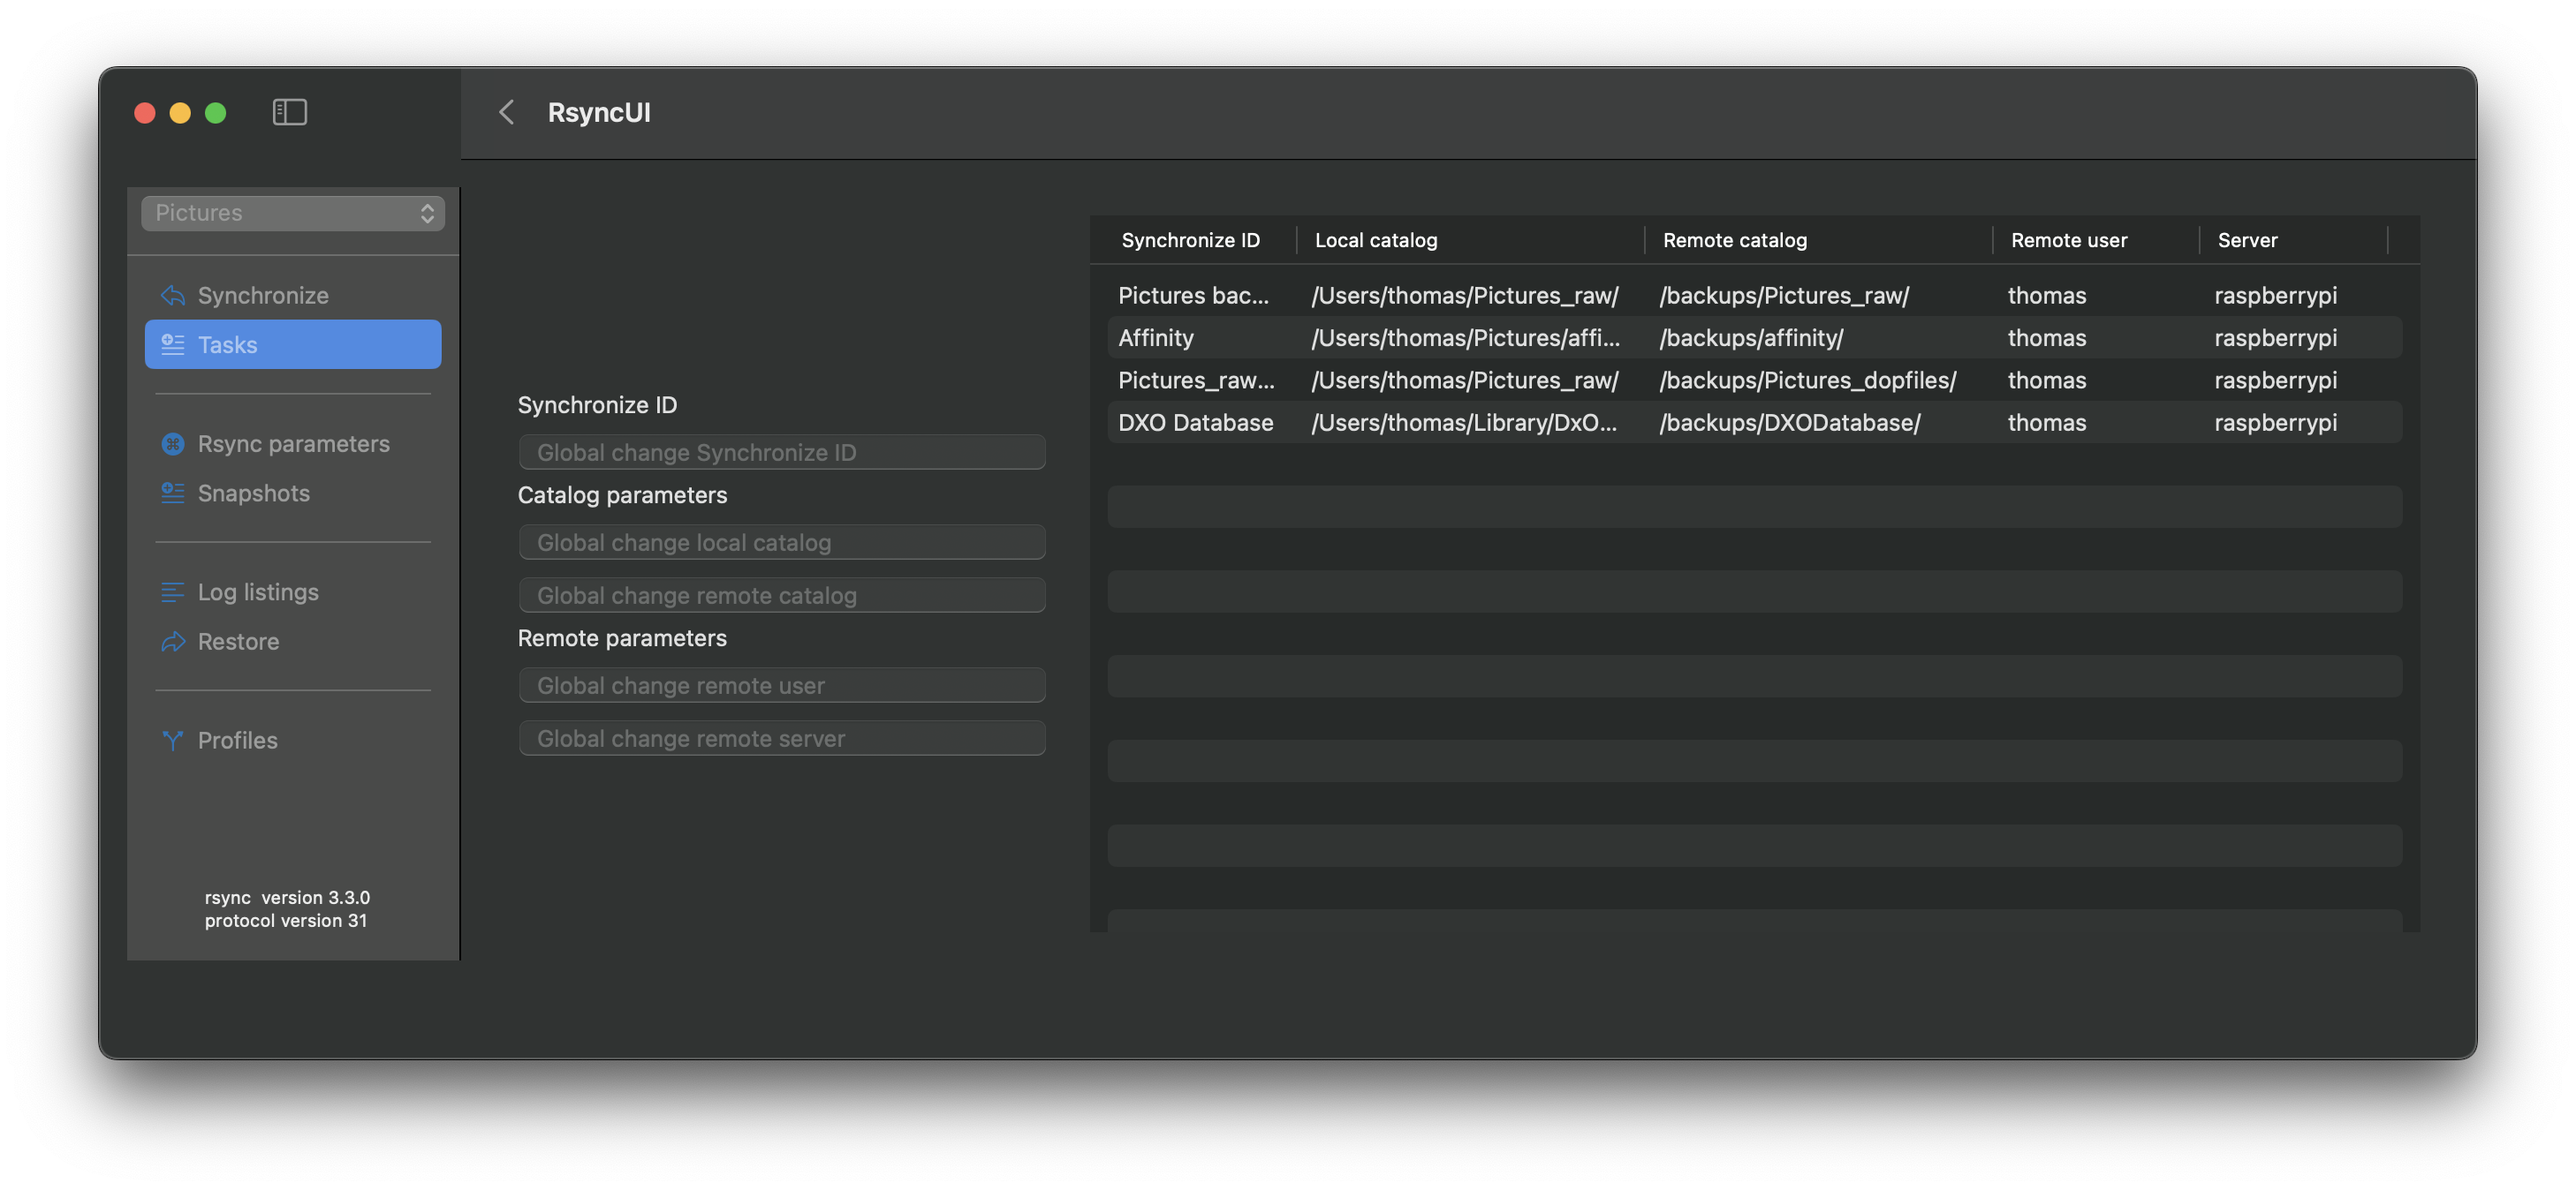
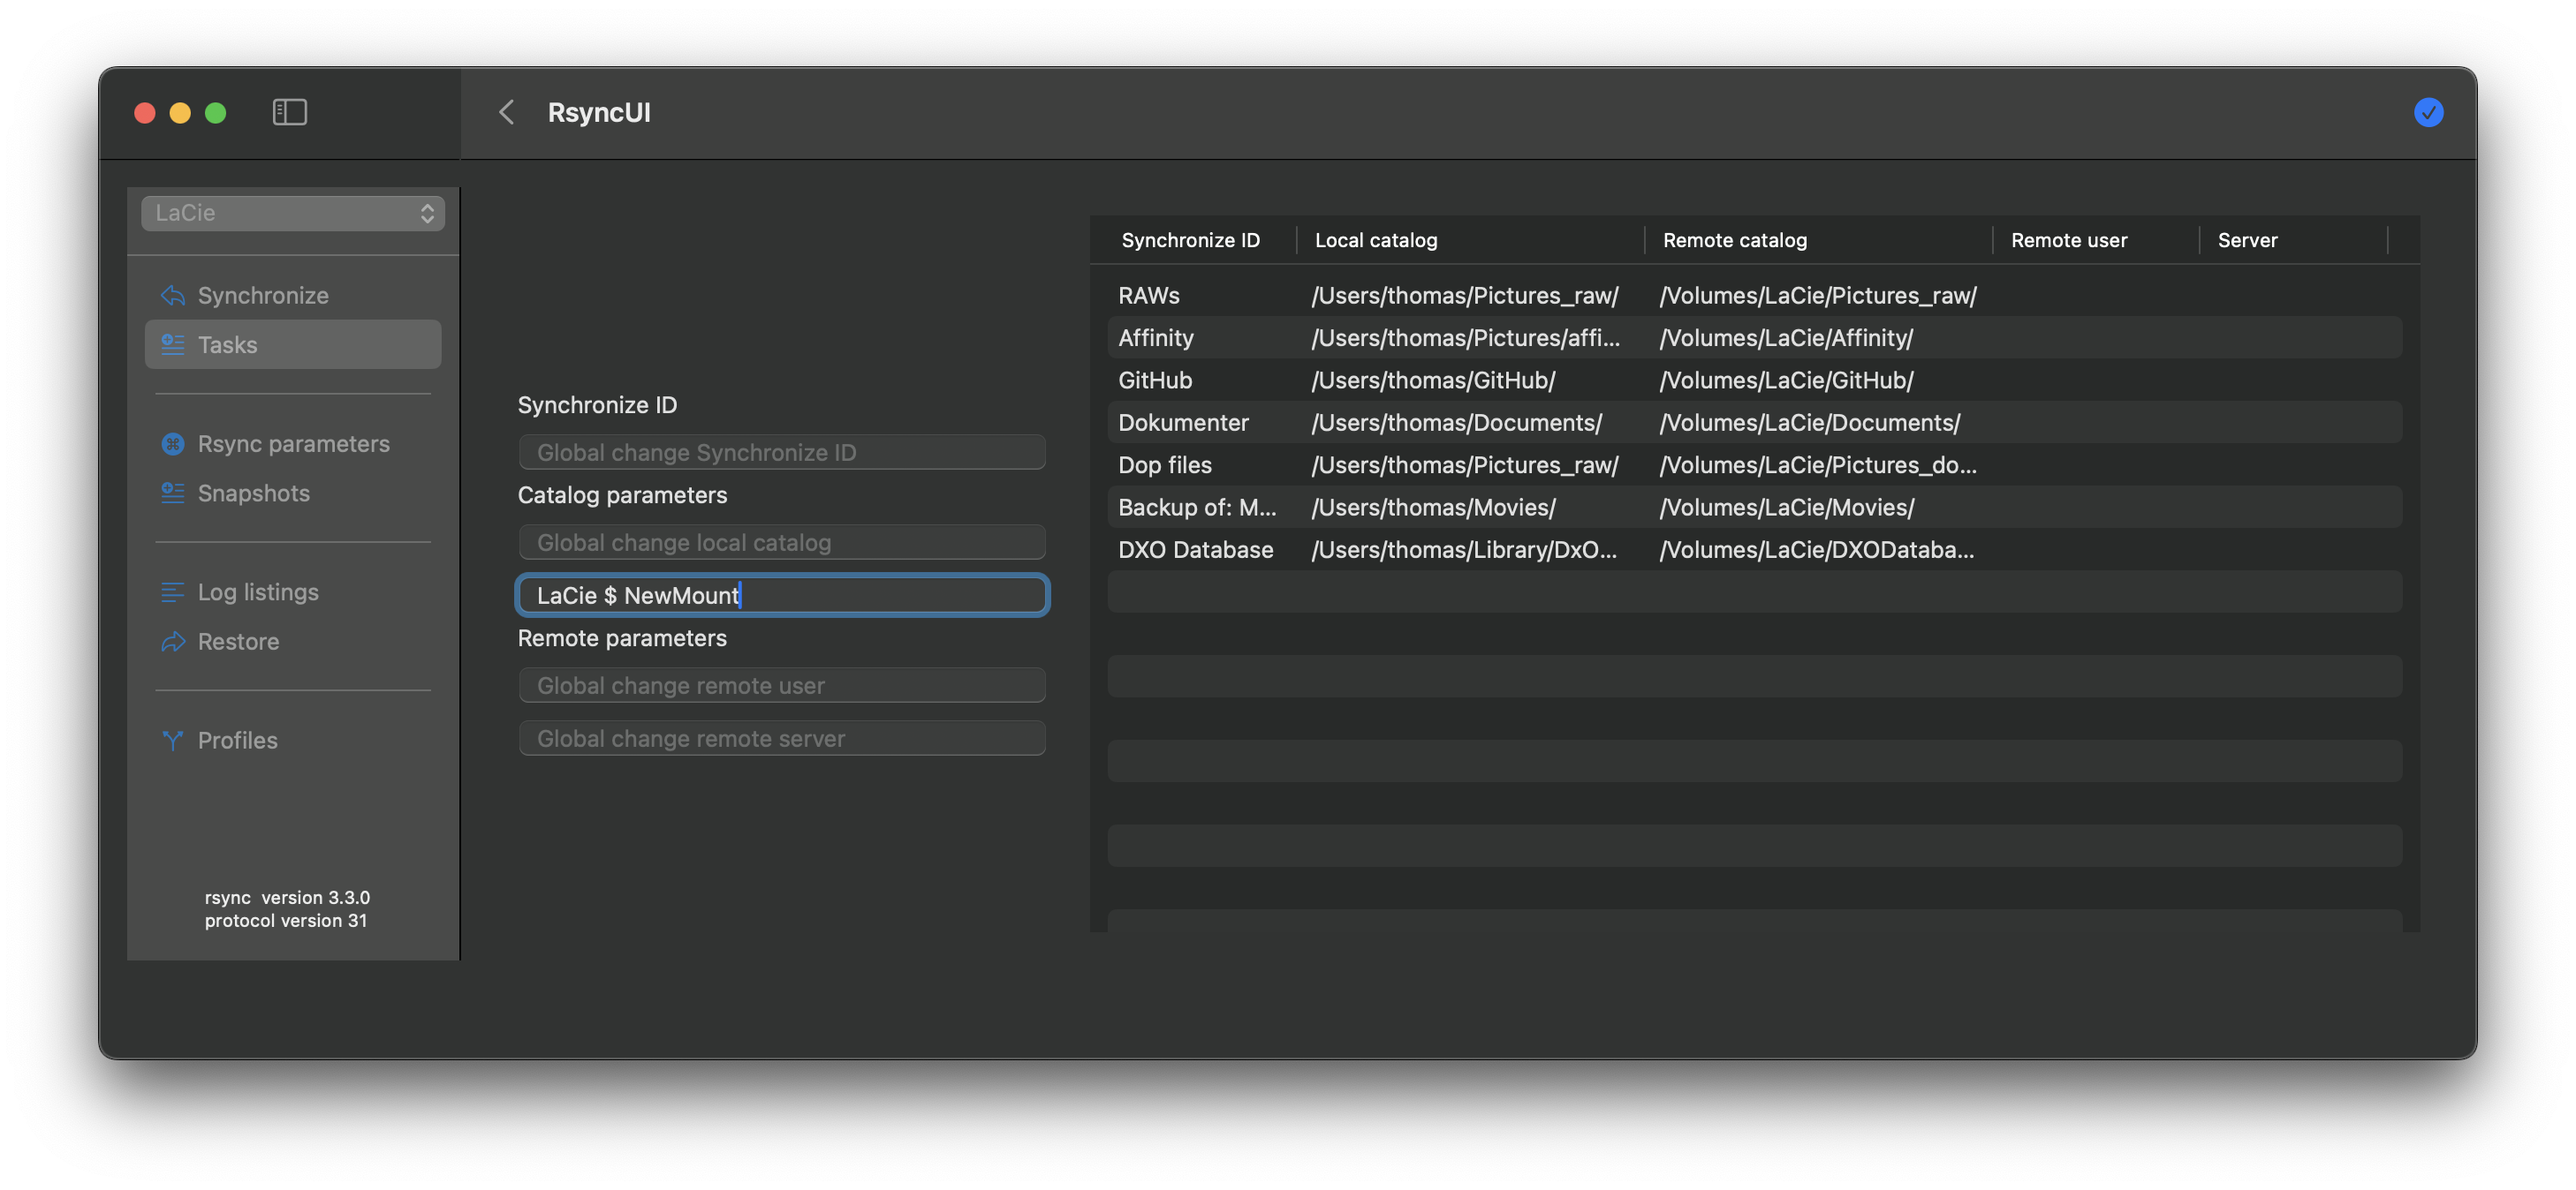
update

diff --git a/content/en/docs/Changelog.md b/content/en/docs/Changelog.md
@@ -35,14 +35,17 @@ compile time."*
 Most likely to be released late in November 2024. Changes and enhancements to be be updated here.
 
 - the estimate view is updated, an arrow points which task is estimated, blue text indicate task is estimated
+
 {{< figure src="/images/217/estimate.png" alt="" position="center" style="border-radius: 8px;" >}}
 
 - in *Task view*, there will be a new view for global changes, either parts of string or full text
-  - an example, the server and user name is changed, update all tasks in one go
-  - another example, the mountpoint for local attached disk is changed, update only the mountpoint all tasks in one go
+  - an example, the mountpoint for local attached disk is changed, update only the mountpoint all tasks in one go
+    - the `$` is used as split character, the string `LaCie $ NewMount` updates all mountpoints
+    - if no split character `$` the complete string is replaced
   - changes of data to be confirmed before update
 
 {{< figure src="/images/217/globalchange.png" alt="" position="center" style="border-radius: 8px;" >}}
+{{< figure src="/images/217/globalchange2.png" alt="" position="center" style="border-radius: 8px;" >}}
 
 
 
